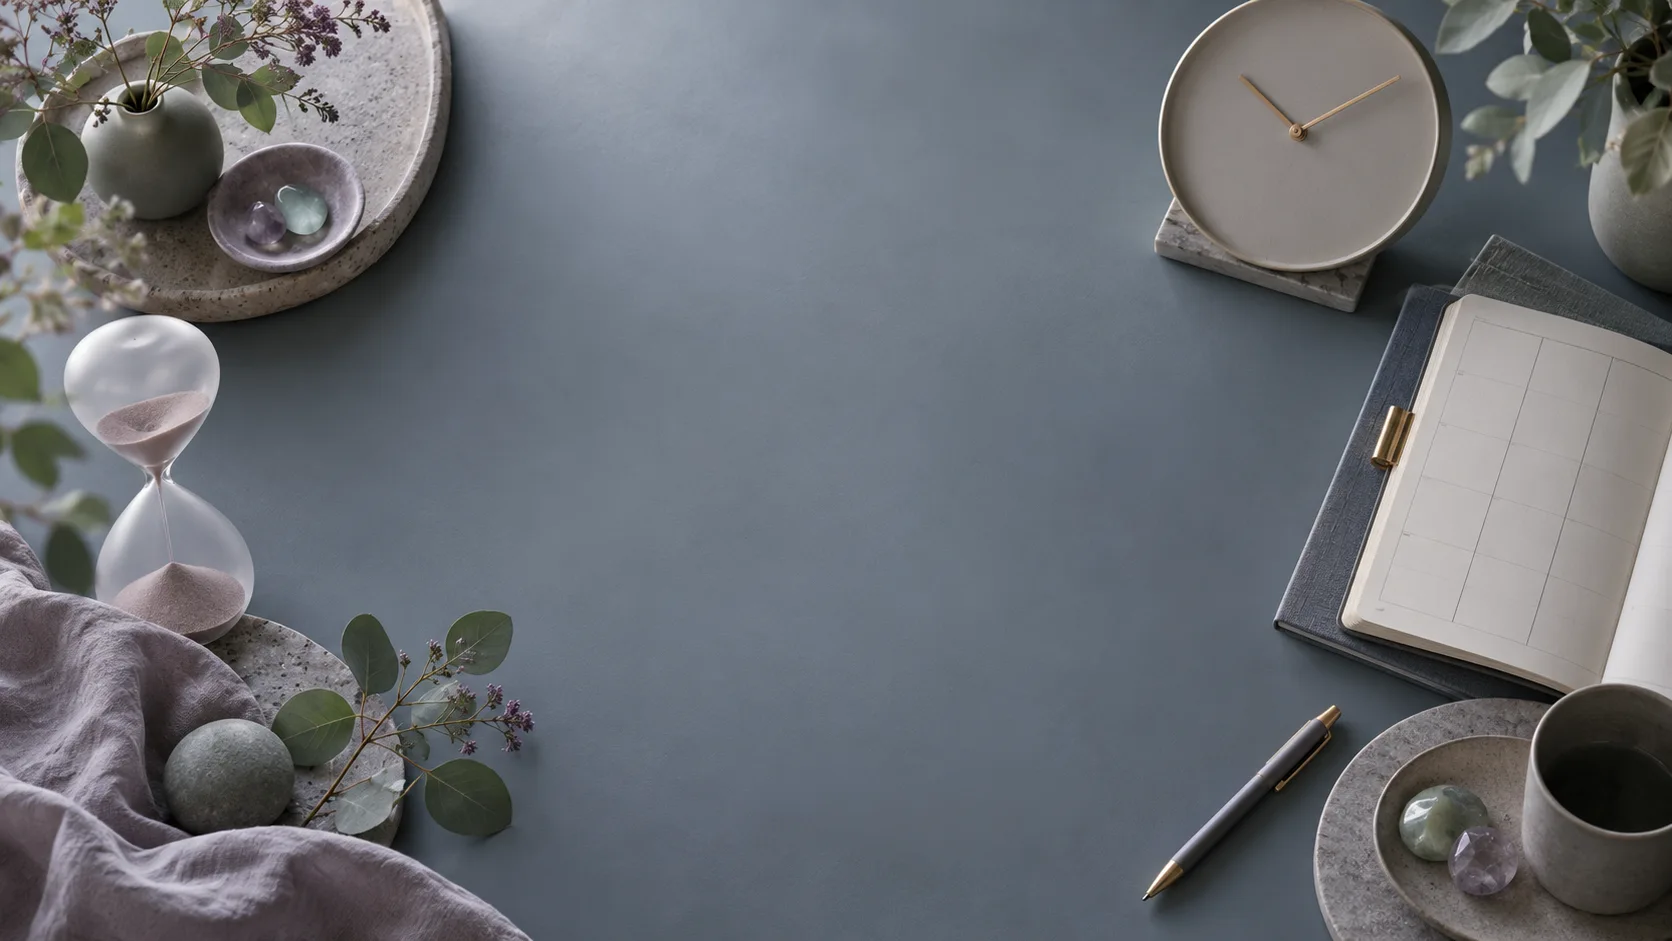
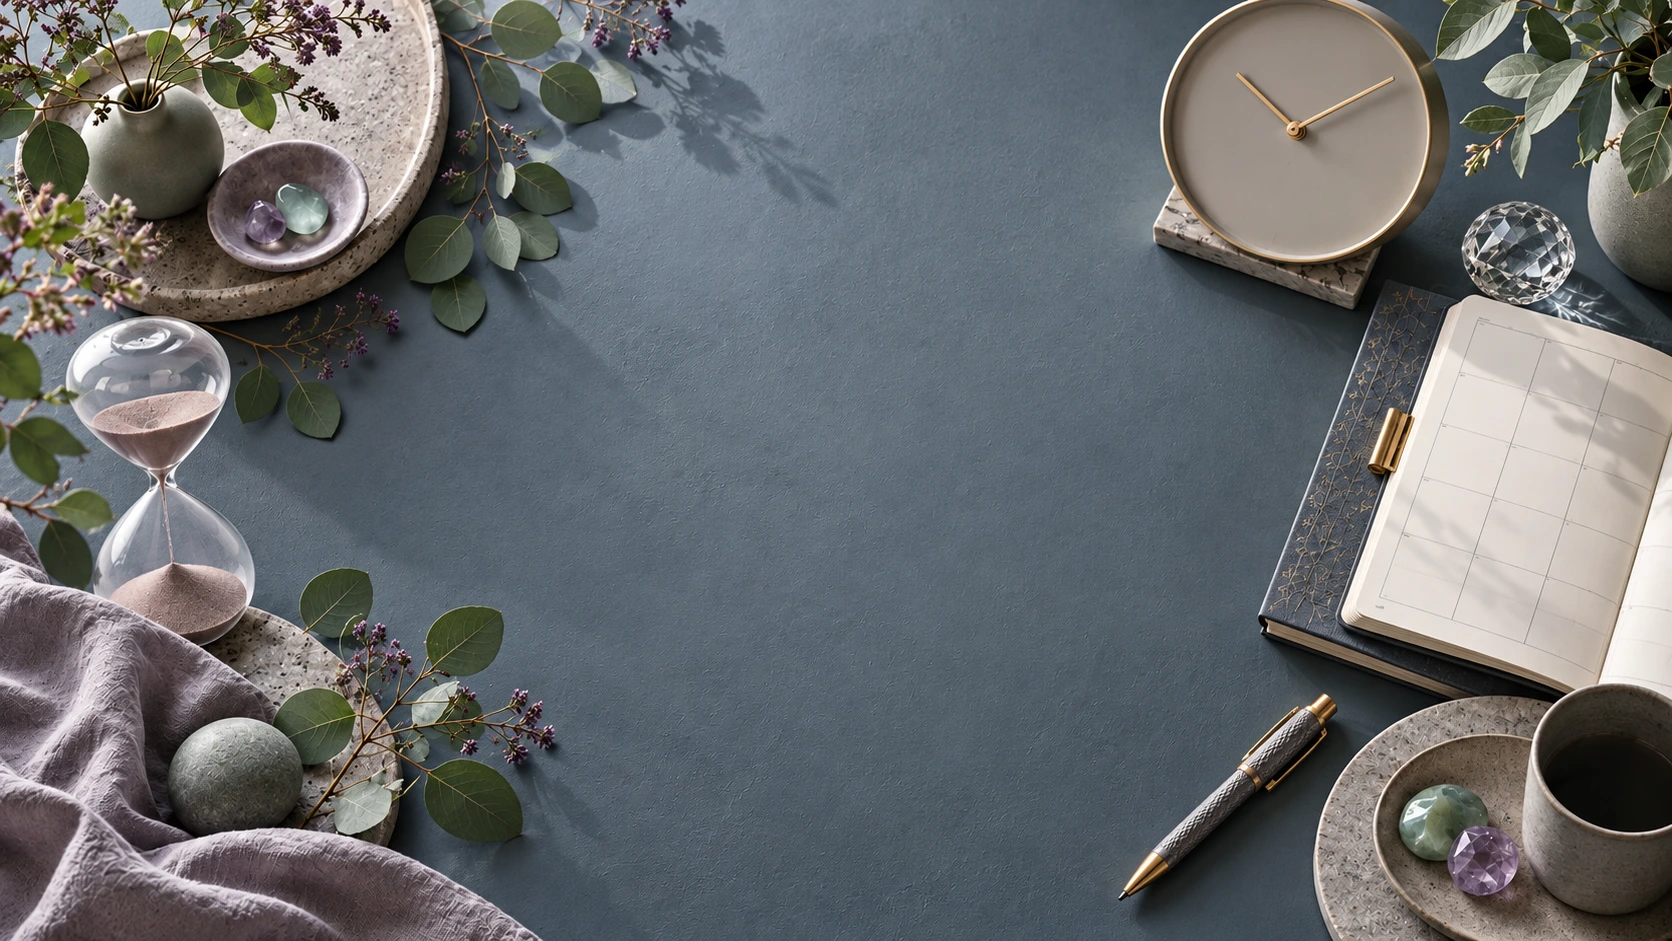
Add large footer statement, polished thumbnails, and crisp backgrounds
Overlay the requested English footer message. Style captured opening views for TIGERGYM, WACOAL, FRANCFRANC, and Fio Lab; use a neutral logo treatment for HANAYA after the initial image-generation batch was rejected. Document the thumbnail provenance and limitation.

Replace flat background art with sharper details and use viewport fitting to avoid stretched objects and repeated seams. Preserve readable content, the calm palette, and seven-color hover effects.

Validation: production builds, 50 desktop/mobile checks, and 6 final public-site checks. Published the existing public Sites project.

diff --git a/app/site.css b/app/site.css
@@ -1105,3 +1105,24 @@ button:disabled { box-shadow: inset 0 1px 0 #fff8,0 1px 0 var(--button-edge); tr
   .contact-time-intro h3 { font-size: 23px; }
   .contact-time-intro p { max-width: 100%; }
 }
+
+/* Keep artwork at its natural scale, with defined detail visible at the edges. */
+#introduction,#selected-work,.introduction-copy,#services,#strengths,#packages,#works,#faq,#contact {
+  background-image:
+    linear-gradient(180deg,var(--paper),transparent 90px,transparent calc(100% - 90px),var(--paper)),
+    linear-gradient(90deg,#cfd7df66,var(--environment-veil) 20%,var(--environment-veil) 80%,#cfd7df66),
+    var(--environment-image);
+  background-size: 100% 100%,100% 100%,cover;
+  background-position: center,center,center top;
+  background-repeat: no-repeat;
+  background-attachment: scroll,scroll,fixed;
+}
+.catalog-summary { padding: 10px 14px; border: 1px solid #b7c4d199; border-radius: 12px; background: #dbe2e9ee; }
+.contact-form { background-size: 100% 100%,100% auto; background-repeat: no-repeat,repeat-y; background-position: center,center top; }
+.footer-scene { position: relative; isolation: isolate; }
+.footer-scene::before { content: ""; position: absolute; inset: 0 0 64%; background: linear-gradient(180deg,#182d42b8,#182d4240,transparent); pointer-events: none; }
+.footer-statement { position: absolute; z-index: 1; top: 0; left: 4%; right: 4%; margin: 0; text-align: center; color: #fff; font: 700 clamp(20px,3.9vw,76px)/1.1 var(--sans); letter-spacing: -.035em; white-space: nowrap; text-shadow: 0 2px 10px #102131b3; }
+@media(max-width:760px) {
+  #introduction,#selected-work,.introduction-copy,#services,#strengths,#packages,#works,#faq,#contact { background-size: 100% 100%,100% 100%,cover; }
+  .footer-statement { font-size: clamp(17px,5vw,29px); letter-spacing: -.045em; }
+}

diff --git a/components/pattern-footer.tsx b/components/pattern-footer.tsx
@@ -1,5 +1,4 @@
 import { ArrowUp, ArrowUpRight, BriefcaseBusiness, Layers3, Mail, MessageCircle } from "lucide-react";
-import { BotTeam } from "./bot-mascot";
 import { site } from "@/lib/site";
 
 const links = [["はじめに", "introduction"], ["サービス", "services"], ["進め方", "strengths"], ["パッケージ", "packages"], ["制作実績", "works"], ["よくあるご質問", "faq"]];
@@ -7,7 +6,7 @@ const links = [["はじめに", "introduction"], ["サービス", "services"], [
 export function PatternFooter() {
   return <footer className="pattern-footer">
     <div className="footer-closing"><div className="footer-vertical-lockup"><div className="footer-vertical-copy"><p>考える兄と、描く弟。<br />ふたりで、次の一歩へ。</p><a href="#introduction" className="footer-vertical-wordmark">大穂兄弟</a><p>想いをつなぐ、<br />デザインとテクノロジー。</p><span>デザインと開発</span></div></div><div className="footer-invitation"><span className="eyebrow">次の一歩をご一緒に</span><h2>お困りごとを、<br />ひとつ聞かせてください。</h2><p>つくる内容が決まっていなくても大丈夫。<br />必要なことと、進める順番から整理します。</p><a href="#contact" className="catalog-cta">相談内容を伝える<ArrowUpRight size={17} /></a></div></div>
-    <div className="footer-scene" aria-hidden="true" />
+    <div className="footer-scene"><p className="footer-statement" lang="en">Creating time for our clients</p></div>
     <div className="footer-circle-links" aria-label="便利なリンク">
       <a className="icon-link-blue" href="#services"><Layers3 size={19} />サービス</a>
       <a className="icon-link-orange" href="#works"><BriefcaseBusiness size={19} />制作例</a>

diff --git a/tests/environment.spec.ts b/tests/environment.spec.ts
@@ -73,5 +73,15 @@ test("section images load, surfaces remain opaque, and the footer scene is not c
   await expect(page.locator(".contact-time-intro")).toContainText("本来の仕事に、向き合う時間をつくる。");
   const scene = await page.locator(".footer-scene").boundingBox();
   expect(scene!.width / scene!.height).toBeCloseTo(3, 1);
+  const statement = page.locator(".footer-statement");
+  await expect(statement).toHaveText("Creating time for our clients");
+  await expect(statement).toHaveAttribute("lang", "en");
+  const title = await statement.boundingBox();
+  expect(title!.x).toBeGreaterThanOrEqual(scene!.x);
+  expect(title!.x + title!.width).toBeLessThanOrEqual(scene!.x + scene!.width + 1);
+  const sizing = await page.locator("#packages").evaluate(el => getComputedStyle(el).backgroundSize);
+  expect(sizing).toBe("100% 100%, 100% 100%, cover");
+  await expect(page.locator("#packages")).toHaveCSS("background-attachment", "scroll, scroll, fixed");
+  expect(await statement.evaluate(el => el.scrollWidth <= el.clientWidth)).toBe(true);
   expect(await page.evaluate(() => document.documentElement.scrollWidth <= innerWidth)).toBe(true);
 });

diff --git a/tests/portfolio.spec.ts b/tests/portfolio.spec.ts
@@ -367,7 +367,7 @@ test("site-owned copy is Japanese and the skill orbit uses icons", async ({ page
   await page.getByText("対応領域・技術の組み合わせを見る", { exact:true }).click();
   await expect(page.locator(".skill-tool-badge > svg")).toHaveCount(13);
   await expect(page.locator(".skill-tool-badge > strong")).toHaveCount(0);
-  const latin = await page.locator("body").innerText();
+  const latin = (await page.locator("body").innerText()).replace("Creating time for our clients", "");
   expect(latin.match(/[A-Za-z]+/g)).toBeNull();
   const placeholders = await page.locator("input[placeholder],textarea[placeholder]").evaluateAll(elements=>elements.map(element=>element.getAttribute("placeholder")).join(" "));
   expect(placeholders.match(/[A-Za-z]+/g)).toBeNull();

diff --git a/docs/sharp-artwork.md b/docs/sharp-artwork.md
@@ -1,0 +1,66 @@
+# フッター・実績サムネイル・背景の鮮明化
+
+2026年10月29日。組み込み画像生成ツールを使用。公開サイトの初期表示を1440×900で撮影し、TIGERGYM・WACOAL・FRANCFRANC・Fio Labの画面をブラウザフレーム付きのサムネイルへ加工しました。画像生成によるスタイル化のため、公開サイトそのものの未加工キャプチャとは区別します。掲載先の現在の表示は変わる場合があります。
+
+最初の画像生成バッチが性的コンテンツの判定で拒否されたため、HANAYAには人物入りの素材を再利用せず、公式ロゴだけを使う中立的なブランド表示を採用しました。WACOALは衣服を着用したスポーツ広告の初期スライドを使っています。HANAYAの画像はファーストビューの再現ではありません。サイトの同意画面は操作していません。
+
+フッターには指定された英語「Creating time for our clients」を大きな通常テキストとして重ねています。この一文は、日本語のみという従来の方針に対する明示的な例外です。
+
+背景の図案、道具、ガラス、石、紙の細部を鮮明に更新。背景をセクションの高さに引き伸ばす表示から、適切な幅または固定高さの表示へ変更しました。中央の読書領域には濃い文字と色のベールを維持し、外側は画像の輪郭を見せます。画像にぼかしフィルターは使用していません。
+
+## 保存先と最終プロンプト
+
+### selected
+
+`public/images/environments/calm-selected.webp`
+
+Revise this website decorative background into a richer, sharper editorial composition. Preserve the restrained slate, sage, mauve and warm-gray palette and same 16:9 landscape framing. Use deep depth of field, focus stacking, crisp material edges, finely resolved grain, full-scene sharpness; NO bokeh, fog, soft focus, blur, bloom or milky haze. Add purposeful layered details and patterns around the outer third while keeping a calm central reading area. No people, no robots, no letters, no logo. Detailed folded graphic papers with fine geometric embossing, precise ruler and small metal typography blocks without readable letters, richly textured linen notebook, cut-glass paperweight, carved ceramic tray. Premium Japanese design desk, clear individual objects.
+
+### services
+
+`public/images/environments/calm-services.webp`
+
+Revise this website decorative background into a richer, sharper editorial composition. Preserve the restrained slate, sage, mauve and warm-gray palette and same 16:9 landscape framing. Use deep depth of field, focus stacking, crisp material edges, finely resolved grain, full-scene sharpness; NO bokeh, fog, soft focus, blur, bloom or milky haze. Add purposeful layered details and patterns around the outer third while keeping a calm central reading area. No people, no robots, no letters, no logo. A more intricate arrangement of interlocking solid mint glass and dark ceramic arcs, fine ribbed surfaces, carved grid patterns in stone, sharp joinery and precise seams, structured design toolkit metaphor, subtle complexity without clutter.
+
+### portfolio
+
+`public/images/environments/calm-portfolio.webp`
+
+Revise this website decorative background into a richer, sharper editorial composition. Preserve the restrained slate, sage, mauve and warm-gray palette and same 16:9 landscape framing. Use deep depth of field, focus stacking, crisp material edges, finely resolved grain, full-scene sharpness; NO bokeh, fog, soft focus, blur, bloom or milky haze. Add purposeful layered details and patterns around the outer third while keeping a calm central reading area. No people, no robots, no letters, no logo. A sophisticated studio gallery with layered slim frames showing abstract geometric art, patterned ceramic panels, ribbed walnut shelf and small stone sculptures, crisp varied texture, accurately defined objects and architectural details.
+
+### inquiry
+
+`public/images/environments/calm-inquiry.webp`
+
+Revise this website decorative background into a richer, sharper editorial composition. Preserve the restrained slate, sage, mauve and warm-gray palette and same 16:9 landscape framing. Use deep depth of field, focus stacking, crisp material edges, finely resolved grain, full-scene sharpness; NO bokeh, fog, soft focus, blur, bloom or milky haze. Add purposeful layered details and patterns around the outer third while keeping a calm central reading area. No people, no robots, no letters, no logo. Sharply detailed elegant clock, hourglass with visible individual sand grains, engraved metal pen, folded calendar grid with no letters, subtly patterned notebook and clear faceted glass paperweight. Keep the sense of creating time for thoughtful work and the open central area. No generated text.
+
+### サムネイル 01
+
+`public/images/portfolio/work-01.webp`
+
+Create an attractive premium portfolio thumbnail, landscape 8:5. Use the supplied REAL website first-view screenshot as a flat screenshot texture, faithfully preserve its existing layout, images, people and original branding. Do not invent products, claims, numbers, new faces or extra website content. The screenshot should occupy 90% of the canvas inside one crisp minimal front-facing browser frame, with subtly rounded corners, thin border, three small browser dots, modest shadow and an elegant editorial backing. Do not crop the screenshot, distort perspective, blur or retype its text. No laptops, no phones, no extra floating windows, no added text outside the original screenshot. Polished and colorful but professional. Use muted charcoal and warm gold backing, strong clean composition.
+
+### サムネイル 03
+
+`public/images/portfolio/work-03.webp`
+
+Create a premium website portfolio thumbnail, landscape 8:5. Keep the supplied screenshot as one faithful flat texture with the original website layout, photographs, people, branding and text unchanged. Place it inside one large front-facing minimal browser frame occupying about 90% of the canvas, thin outline, three small browser dots, subtly rounded corners and restrained shadow. No extra devices, no invented claims, no text outside the original screenshot, no perspective distortion, no blurring or retyping. This is the WACOAL opening sportswear carousel. Use elegant charcoal and dusty rose backing, preserve the clothed adult man.
+
+### サムネイル 04
+
+`public/images/portfolio/work-04.webp`
+
+Create a premium website portfolio thumbnail, landscape 8:5. Keep the supplied screenshot as one faithful flat texture with the original website layout, photographs, people, branding and text unchanged. Place it inside one large front-facing minimal browser frame occupying about 90% of the canvas, thin outline, three small browser dots, subtly rounded corners and restrained shadow. No extra devices, no invented claims, no text outside the original screenshot, no perspective distortion, no blurring or retyping. This is the Francfranc interior store. Use deep forest green and blush backing and preserve the centered narrow website and its original side panels.
+
+### サムネイル 18
+
+`public/images/portfolio/work-18.webp`
+
+Create a premium website portfolio thumbnail, landscape 8:5. Keep the supplied screenshot as one faithful flat texture with the original website layout, photographs, people, branding and text unchanged. Place it inside one large front-facing minimal browser frame occupying about 90% of the canvas, thin outline, three small browser dots, subtly rounded corners and restrained shadow. No extra devices, no invented claims, no text outside the original screenshot, no perspective distortion, no blurring or retyping. This is Fio Lab. Use warm muted slate blue and soft butter-yellow backing, refined lifestyle editorial treatment.
+
+### サムネイル 06
+
+`public/images/portfolio/work-06.webp`
+
+Create a neutral brand-only website portfolio thumbnail, landscape 8:5. Use ONLY this supplied HANAYA PROJECT logo image: the white floral mark and exact white lettering on pink. Do not add any people or any other source imagery. Place the unchanged logo panel in a clean large minimal browser frame with subtle shadow, on dusty pink and slate blue geometric backing. A restrained professional graphic design presentation, no extra claims, no invented website navigation, no other text.
+

diff --git a/docs/portfolio-sources.md b/docs/portfolio-sources.md
@@ -1,5 +1,7 @@
 # 制作実績の掲載情報
 
+最新のサムネイル加工については `docs/sharp-artwork.md` を参照。TIGERGYM・WACOAL・FRANCFRANC・Fio Labは新しい初期表示キャプチャをもとにしています。HANAYAは公式ロゴの中立的なブランド表示で、人物入りのファーストビューの再現ではありません。
+
 2026年10月29日、サイト所有者から提供された19行のURLを18件に整理。タニカのあまざけの重複を統合しました。サイト名と紹介文は各公開先を確認し、日本語で記載しています。
 
 分類は所有者のグループ分けに沿っています。最後の三件のみ、提供された Vue・Nuxt・Node.js・Firebase を記載。ねこねこ薬局には提供された GSAP も記載しています。他のサイトの技術、制作時期、担当範囲、成果指標は推測していません。任天堂は提供されたトップページのURLをそのまま掲載しています。

diff --git a/README.md b/README.md
@@ -87,6 +87,8 @@ NEXT_PUBLIC_SITE_URL=https://実際の公開ドメイン
 
 ## データと画像の差し替え
 
+フッターの指定英語コピー、ファーストビューを使った実績サムネイル、背景の鮮明化は `docs/sharp-artwork.md` を参照してください。HANAYAは画像生成の制限により、公式ロゴを使った中立的な表示です。
+
 実績は所有者から提供されたリンクを掲載しています。担当範囲・成果数値・制作時期は未提供のため記載していません。三つの自主制作デモは実績とは分けて表示しています。更新は `lib/projects.ts` を編集してください。
 
 現在の連絡先案内は、TOMOのキャラクターを使ったHTMLです。過去の差し替え用画像 `public/images/contact-placeholder.webp` と設定は保管しています。
